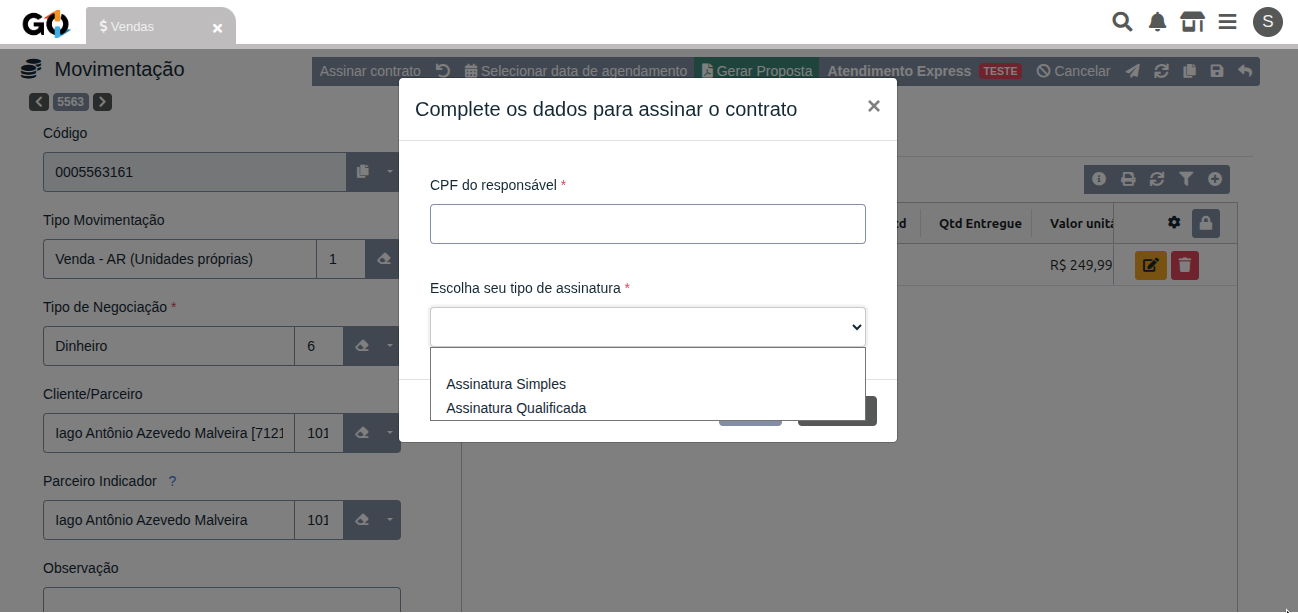
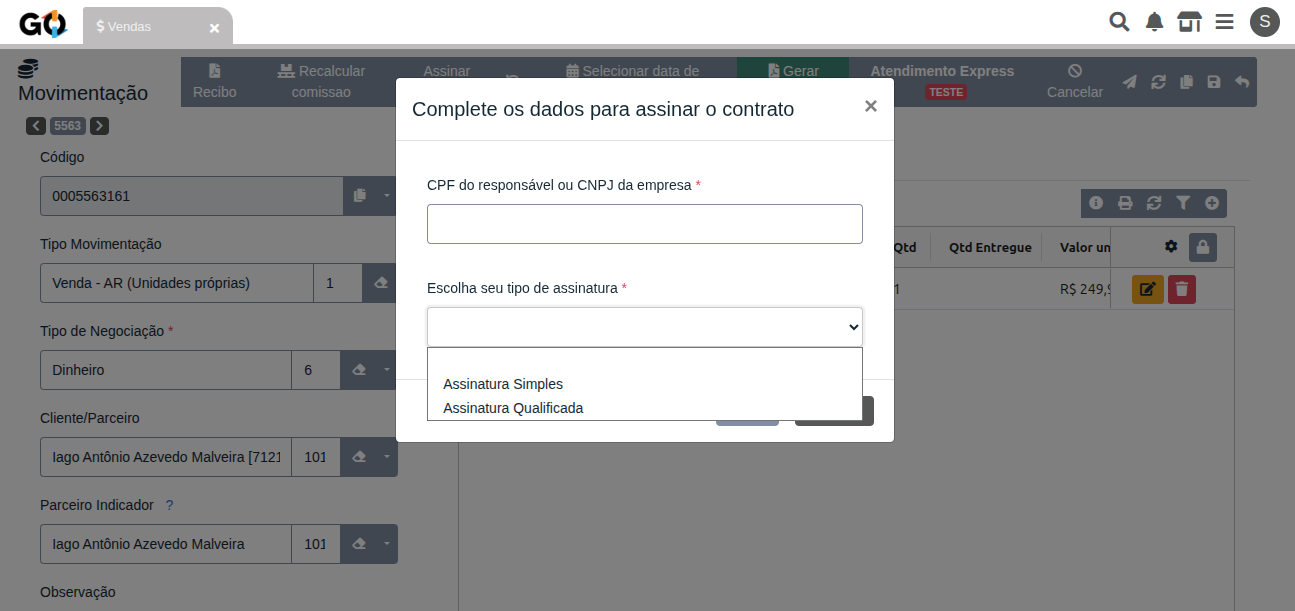
feat: complementar tutorial com CNPJ e atualizar imagens

diff --git a/erp-v2/marketplace/extensions/br.com.api.go-signer.gestao-online/DESCRIPTION.md b/erp-v2/marketplace/extensions/br.com.api.go-signer.gestao-online/DESCRIPTION.md
@@ -1,10 +1,10 @@
 <div style="text-align: justify">
 
-### Apresentamos a extensão GO Signer!
+### Apresentamos a extensão GoSigner!
 
 | | |
 |-|-|
-|O **GO Signer** é a solução integrada do Gestão Online para **assinatura digital de contratos de vendas**. <br><br>Com ele, você envia documentos para assinatura, acompanha todo o processo em tempo real e recebe o PDF assinado **automaticamente** dentro da sua movimentação no sistema — tudo de forma simples, rápida e segura. |<div><img src="https://github.com/Gestao-Online/public-docs/blob/master/erp-v2/assets/marketplace/go-signer/contract.png?raw=true"></div> |
+|O **GoSigner** é a solução integrada do Gestão Online para **assinatura digital de contratos de vendas**. <br><br>Com ele, você envia documentos para assinatura, acompanha todo o processo em tempo real e recebe o PDF assinado **automaticamente** dentro da sua movimentação no sistema — tudo de forma simples, rápida e segura. |<div><img src="https://github.com/Gestao-Online/public-docs/blob/master/erp-v2/assets/marketplace/go-signer/contract.png?raw=true"></div> |
 
 ## Como Funciona na Prática
 
@@ -13,24 +13,20 @@
 O processo é simples e totalmente guiado:
 
 1. **Você clica em "Assinar Contrato"** na movimentação do Gestão Online.
-2. **Uma nova janela abre** para inserir o CPF da pessoa que vai assinar e o tipo de assinatura que deseja utlizar.
-3. **Após selecionar o tipo de assinatura** aparecerá os anexos da movimentação, e deve ser selecionado os que deseja assinar.
+2. **Uma nova janela abre** para inserir o **CPF** do responsável ou o **CNPJ** da empresa responsável pela assinatura e o tipo de assinatura que deseja utilizar.
+3. **Após selecionar o tipo de assinatura**, os anexos da movimentação serão exibidos para que você selecione os que deseja assinar.
 4. **Após clicar em confirmar**, o sistema gera um link exclusivo para o GoSigner.
-5. **Seu cliente acessa o link**, preenche seu nome completo, confirma a localização atual e assina digitalmente.
-6. **O Gestão Online recebe automaticamente** o documento assinado e anexa na movimentação.
-7. **Um histórico é registrado** automaticamente indicando a conclusão da assinatura via GOSigner.
+5. **Seu cliente acessa o link**, preenche os dados solicitados e realiza a assinatura digital do documento.
+6. **O Gestão Online recebe automaticamente** o documento assinado e anexa à movimentação.
+7. **Um histórico é registrado** automaticamente indicando a conclusão da assinatura via GoSigner.
 
 **OBS**: Só é possível assinar anexos que foram criados no formato **PDF**.
-
-<div style="text-align: center">
-    <img src="https://github.com/Gestao-Online/public-docs/blob/master/erp-v2/assets/marketplace/go-signer/fluxo_completo.gif?raw=true" alt="GO Signer GIF" width="800"> 
-</div>
 
 <br>
 
 ## Segurança e Validade Jurídica
 
-Todas as assinaturas realizadas através do **GO Signer** possuem **validade jurídica plena**, atendendo a todos os requisitos de segurança estabelecidos pelo ICP-Brasil.
+Todas as assinaturas realizadas através do **GoSigner** possuem **validade jurídica plena**, atendendo a todos os requisitos de segurança estabelecidos pelo ICP-Brasil.
 
 | Característica                                | Benefício                                              |
 | -------------------------------------- | ------------------------------------------------------ |
@@ -65,14 +61,14 @@ Ofereça uma jornada moderna de assinatura digital que impressiona seus clientes
 
 | | |
 |-|-|
-|<img src="https://github.com/Gestao-Online/public-docs/blob/master/erp-v2/assets/marketplace/go-signer/img2.png?raw=true">| Imagine que sua empresa oferece um **serviço mensal** para escritórios. Toda vez que um novo cliente contrata o serviço, você precisa que ele assine o contrato de adesão.<br><br>Com o **GO Signer**, o processo fica assim:<br><br>1. Você cadastra a venda no Gestão Online e anexa o contrato<br>2. Clica em **"Assinar Contrato"** e insere o CPF do cliente<br>3. O cliente recebe o link e assina em poucos minutos<br>4. O contrato assinado volta automaticamente para o sistema<br>5. Tudo fica registrado e organizado para você começar o serviço |
+|<img src="https://github.com/Gestao-Online/public-docs/blob/master/erp-v2/assets/marketplace/go-signer/img2.png?raw=true">| Imagine que sua empresa oferece um **serviço mensal** para escritórios. Toda vez que um novo cliente contrata o serviço, você precisa que ele assine o contrato de adesão.<br><br>Com o **GoSigner**, o processo fica assim:<br><br>1. Você cadastra a venda no Gestão Online e anexa o contrato<br>2. Clica em **"Assinar Contrato"** e insere o CPF do cliente<br>3. O cliente recebe o link e assina em poucos minutos<br>4. O contrato assinado volta automaticamente para o sistema<br>5. Tudo fica registrado e organizado para você começar o serviço |
 
 
 <br>
 
 ### Transforme Seu Fluxo de Assinaturas
 
-**GO Signer** elimina a burocracia do papel e torna o processo de assinatura de contratos **rápido, seguro e integrado** ao seu dia a dia no Gestão Online.
+**GoSigner** elimina a burocracia do papel e torna o processo de assinatura de contratos **rápido, seguro e integrado** ao seu dia a dia no Gestão Online.
 
 **Aproveite para fechar mais vendas com agilidade e profissionalismo!**
 

diff --git a/erp-v2/marketplace/extensions/br.com.api.go-signer.gestao-online/README.md b/erp-v2/marketplace/extensions/br.com.api.go-signer.gestao-online/README.md
@@ -1,8 +1,8 @@
 <div style="text-align: justify">
 
-# GO Signer
+# GoSigner
 
-A **GO Signer** é uma extensão do sistema Gestão Online que permite assinar anexos presentes nas vendas confirmadas.
+A **GoSigner** é uma extensão do sistema Gestão Online que permite assinar anexos presentes nas vendas confirmadas.
 
 Esta extensão permite o envio, acompanhamento e recebimento automático de documentos assinados digitalmente, de forma segura e integrada ao sistema.
 
@@ -16,7 +16,7 @@ Esta extensão permite o envio, acompanhamento e recebimento automático de docu
 
 ### **1\. Acesso à Configuração**
 
-Para configurar a extensão GO Signer:
+Para configurar a extensão GoSigner:
 
 <div style="text-align: center">
     <img src="https://github.com/Gestao-Online/public-docs/blob/master/erp-v2/assets/marketplace/go-signer/fluxo_config_extensao%20.gif?raw=true" alt="GO Signer GIF" width="800"> 
@@ -25,12 +25,12 @@ Para configurar a extensão GO Signer:
 <br>
 
 1. Acesse o menu de **Extensões** no sistema  
-2. Localize a extensão **GO Signer** 
+2. Localize a extensão **GoSigner** 
 3. Clique em **Configurar**
 
 ### **2\. Campos de Configuração**
 
-Na tela que abrir, você verá **três campos**:
+Na tela que será exibida, você verá **três campos**:
 
 <div style="text-align: center">
     <img src="https://github.com/Gestao-Online/public-docs/blob/master/erp-v2/assets/marketplace/go-signer/config.png?raw=true" alt="GO Signer GIF" width="800"> 
@@ -60,28 +60,29 @@ O botão **“Assinar Contrato”** ficará disponível no canto superior esquer
     <img src="https://github.com/Gestao-Online/public-docs/blob/master/erp-v2/assets/marketplace/go-signer/botao_assinar.png?raw=true" alt="Botão Assinar Contrato na tela de venda" width="800"> 
 </div>
 
-Ao clicar no botão, **abrirá uma nova tela** onde deverá ser informado o **CPF** do responsável pela assinatura e selecionar o tipo de assinatura desejado: **Assinatura Simples** ou **Assinatura Qualificada**.
+Ao clicar no botão, **abrirá uma nova tela** onde deverá ser informado o **CPF** do responsável ou o **CNPJ** da empresa responsável pela assinatura, bem como o tipo de assinatura desejado: **Simples ou Qualificada**
 
 <div style="text-align: center">
-    <img src="https://github.com/Gestao-Online/public-docs/blob/master/erp-v2/assets/marketplace/go-signer/tipo_assinatura.png?raw=true" alt="Tela de seleção do tipo de assinatura" width="800"> 
+    <img src="../../../assets/marketplace/go-signer/tipo_assinatura.png" alt="Tela de seleção do tipo de assinatura" width="800"> 
 </div>
-
----
 
 ## 1. Assinatura Simples
 A **Assinatura Simples** é uma assinatura eletrônica que **não utiliza certificado digital**, na qual a identidade do assinante é validada por meio de **dados pessoais, token enviado por e-mail e geolocalização**, garantindo autenticidade e integridade dos documentos assinados.
 
 Para a **Assinatura Simples**, o sistema guiará você pelos seguintes passos:
 
+### • Informar o CPF do responsável
+Na Assinatura Simples, o sistema aceita **somente CPF**. Não é permitido o uso de CNPJ da empresa nessa modalidade, portanto informe o CPF do responsável pela assinatura.
+
 ### • Seleção de Documentos
 Após escolher o tipo de assinatura, serão exibidos os anexos disponíveis. Marque **"Ativado"** nos documentos que deseja assinar e **"Desativado"** nos que não deseja. Em seguida, clique em **"Confirmar"** para prosseguir.
 
 <div style="text-align: center">
-    <img src="https://github.com/Gestao-Online/public-docs/blob/master/erp-v2/assets/marketplace/go-signer/selecionando_documento.gif?raw=true" alt="Selecionando documentos para assinatura" width="800"> 
+    <img src="../../../assets/marketplace/go-signer/selecionando_documento.gif" alt="Gif selecionando documento" width="800"> 
 </div>
 
 ### • Link de Acesso
-Apos confirmar a seleção o sistema gera um **link exclusivo**, que deve ser enviado ao cliente para que ele acesse a **GoSigner** e assine os documentos.
+Após confirmar a seleção o sistema gera um **link exclusivo**, que deve ser enviado ao cliente para que ele acesse a **GoSigner** e assine os documentos.
 
 <div style="text-align: center">
     <img src="https://github.com/Gestao-Online/public-docs/blob/master/erp-v2/assets/marketplace/go-signer/link_exclusivo.png?raw=true" alt="Link exclusivo para assinatura" width="800"> 
@@ -135,7 +136,9 @@ Após a assinatura do cliente, os documentos assinados serão **marcados visualm
 ## 2. Assinatura Qualificada
 A **Assinatura Qualificada** é uma assinatura eletrônica que **utiliza certificado digital ICP-Brasil**, garantindo o mais alto nível de segurança jurídica e autenticidade, sendo equivalente à assinatura manuscrita com reconhecimento de firma.
 
-A **Assinatura Qualificada** segue um fluxo similar, com alterações apenas na etapa de autenticação do certificado.
+O fluxo da **Assinatura Qualificada** é semelhante ao da Assinatura Simples, com duas diferenças principais:
+- Permite o uso de **CPF ou CNPJ**;
+- Inclui uma etapa adicional de autenticação do certificado digital.
 
 Ao acessar o link da GoSigner, o cliente verá a seguinte página:
 
